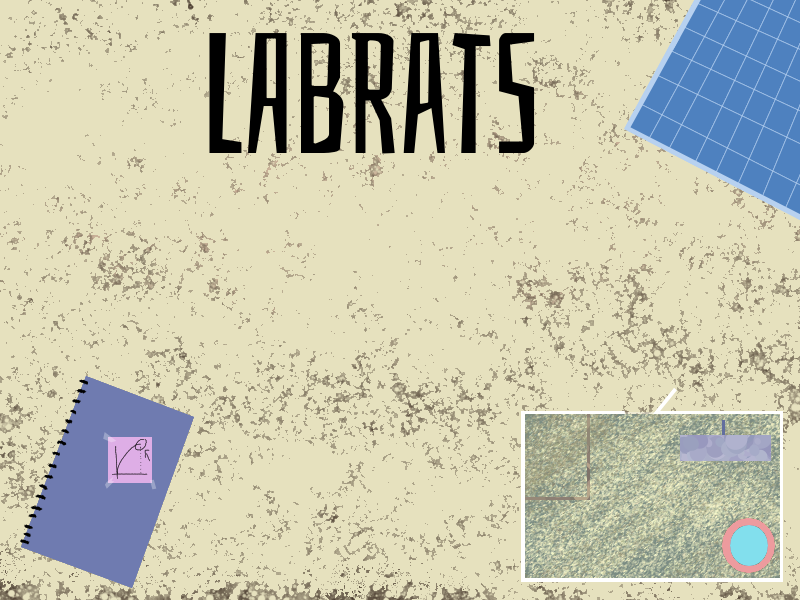
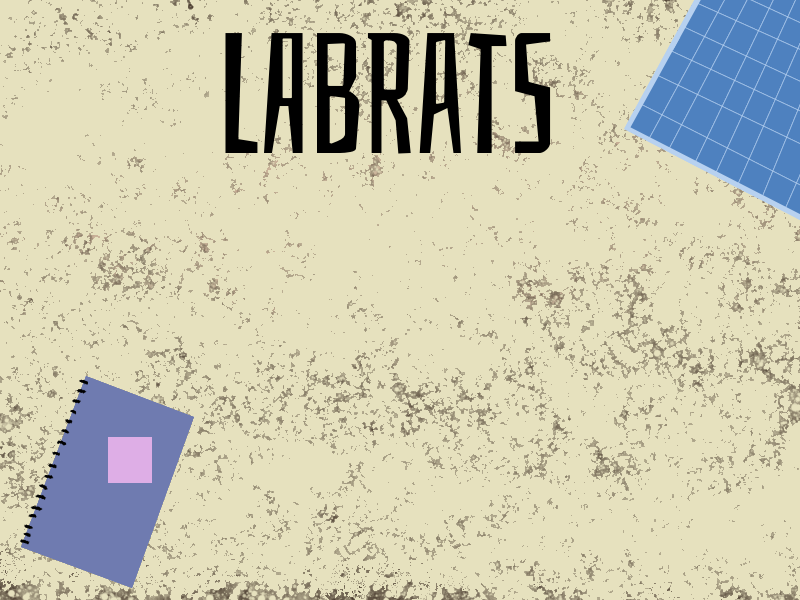
Créditos
Creada la escena de créditos y actualizados los diseños de los botones del menú

Changed region(s): [[0.625, 0.66, 1.0, 0.99], [0.25, 0.03, 0.6875, 0.27], [0.125, 0.72, 0.1875, 0.81]]

diff --git a/Scripts/menu.js b/Scripts/menu.js
@@ -13,6 +13,7 @@ class MenuScene extends Phaser.Scene {
         this.setupBackground();
         this.createStartButton();
         this.createOptionsButton();
+        this.createCreditsButton();
         this.buttonAnims();
     }
 
@@ -24,6 +25,7 @@ class MenuScene extends Phaser.Scene {
         this.load.image('background', 'MenuBackground.png');
         this.load.image('startBtn', 'btnJugar.png');
         this.load.image('optionsBtn', 'btnOpciones.png');
+        this.load.image('creditsBtn', 'btnCréditos.png');
         this.load.audio('mainMenuMusic', 'mainMenuMusic.ogg');
         this.load.audio('deathMusic', 'deathMusic.ogg');
         this.load.audio('click', 'click.wav');
@@ -42,7 +44,7 @@ class MenuScene extends Phaser.Scene {
     }
 
     createStartButton() {
-        this.startBtn = this.add.image(400, 400, 'startBtn').setScale(0.5).setInteractive();
+        this.startBtn = this.add.image(400, 300, 'startBtn').setScale(0.5).setInteractive();
         this.startBtn.on('pointerdown', () => {
             this.game.click.play();
             this.scene.stop("MenuScene");
@@ -52,15 +54,23 @@ class MenuScene extends Phaser.Scene {
     }
 
     createOptionsButton() {
-        this.optionsBtn = this.add.image(400, 500, 'optionsBtn').setScale(0.5).setInteractive();
+        this.optionsBtn = this.add.image(400, 400, 'optionsBtn').setScale(0.5).setInteractive();
         this.optionsBtn.on('pointerdown', () => {
             this.game.click.play();
             this.scene.start('OptionsMenu');
         });
     }
     
+    createCreditsButton() {
+        this.creditsBtn = this.add.image(400, 500, 'creditsBtn').setScale(0.5).setInteractive();
+        this.creditsBtn.on('pointerdown', () => {
+            this.game.click.play();
+            this.scene.start('Credits');
+        });
+    }
+    
     buttonAnims(){
-        [this.startBtn, this.optionsBtn].forEach(button => {
+        [this.startBtn, this.optionsBtn, this.creditsBtn].forEach(button => {
             button.on('pointerover', ()=>this.onButtonHover(button));
             button.on('pointerout', ()=>this.onButtonOut(button));
         });

diff --git a/Scripts/credits.js b/Scripts/credits.js
@@ -1,0 +1,43 @@
+class Credits extends Phaser.Scene {
+
+    constructor() {
+        super({key: "Credits"});
+    }
+
+    preload() {
+
+        this.load.setPath('assets/');
+        this.load.image('creditsBackground', 'creditsBackground.png');
+        this.load.image('backBtn', 'btnSalir.png'); //cambiar el boton (.png)
+        this.load.audio('mainMenuMusic', 'mainMenuMusic.ogg');
+        this.load.audio('click', 'click.wav');
+
+    }
+
+    //Fondo de los creditos
+    create() {
+
+        this.game.click = this.sound.add('click');
+
+        this.add.image(400, 300, 'creditsBackground');
+
+        this.backBtn = this.add.image(720, 550, 'backBtn');
+        this.backBtn.setScale(0.25);
+        this.backBtn.setInteractive();
+        this.backBtn.on('pointerdown', () => {
+            this.game.click.play();
+            this.scene.start('MenuScene');
+        });
+        this.backBtn.on('pointerover', () => {
+            this.backBtn.setScale(0.3);
+        });
+        this.backBtn.on('pointerout', () => {
+            this.backBtn.setScale(0.25);
+        });
+    }
+    
+    update(){
+    }
+    
+    
+}

diff --git a/index.html b/index.html
@@ -14,6 +14,7 @@
         <script src="Scripts/gameOver.js"></script>
         <script src="Scripts/winScene.js"></script>
         <script src="Scripts/loadingScreen.js"></script>
+        <script src="Scripts/credits.js"></script>
         
         <title>LABRATS</title>
         
@@ -38,7 +39,7 @@
                     }
                     
                 },
-                scene: [LoadingScene, MenuScene, GameScene, RoleInfo, OptionsMenu, GameOverScene, WinScene]
+                scene: [LoadingScene, MenuScene, GameScene, RoleInfo, OptionsMenu, GameOverScene, WinScene, Credits]
             };
             const game = new Phaser.Game(config);
             

diff --git a/Scripts/options.js b/Scripts/options.js
@@ -8,7 +8,7 @@ class OptionsMenu extends Phaser.Scene {
 
         this.load.setPath('assets/');
         this.load.image('background', 'MenuBackground.png');
-        this.load.image('backBtn', 'btnOpciones.png'); //cambiar el boton (.png)
+        this.load.image('backBtn', 'btnSalir.png'); //cambiar el boton (.png)
         this.load.audio('mainMenuMusic', 'mainMenuMusic.ogg');
         this.load.audio('click', 'click.wav');
         
